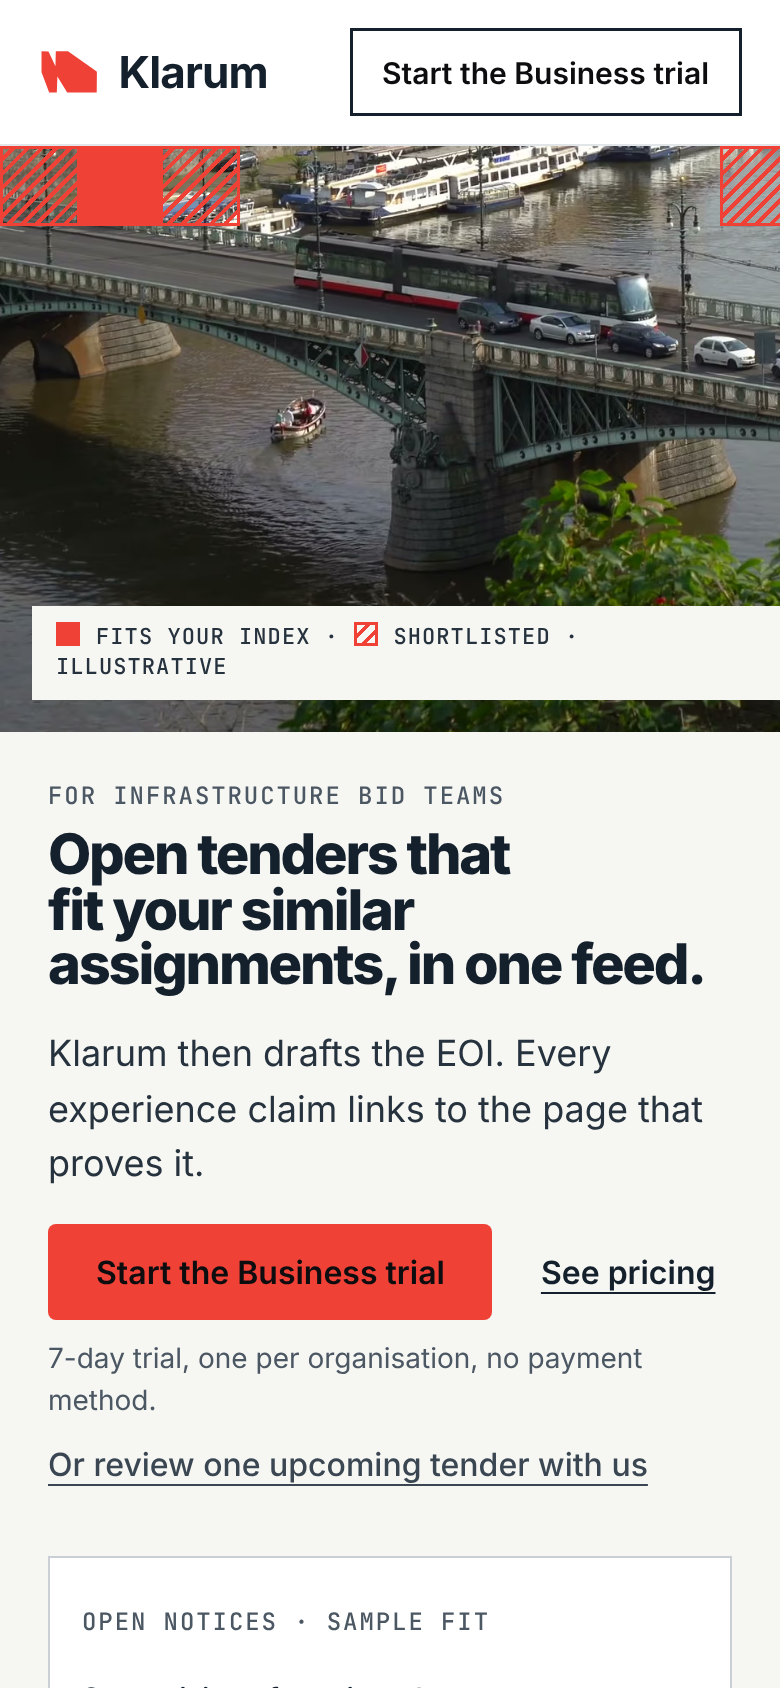
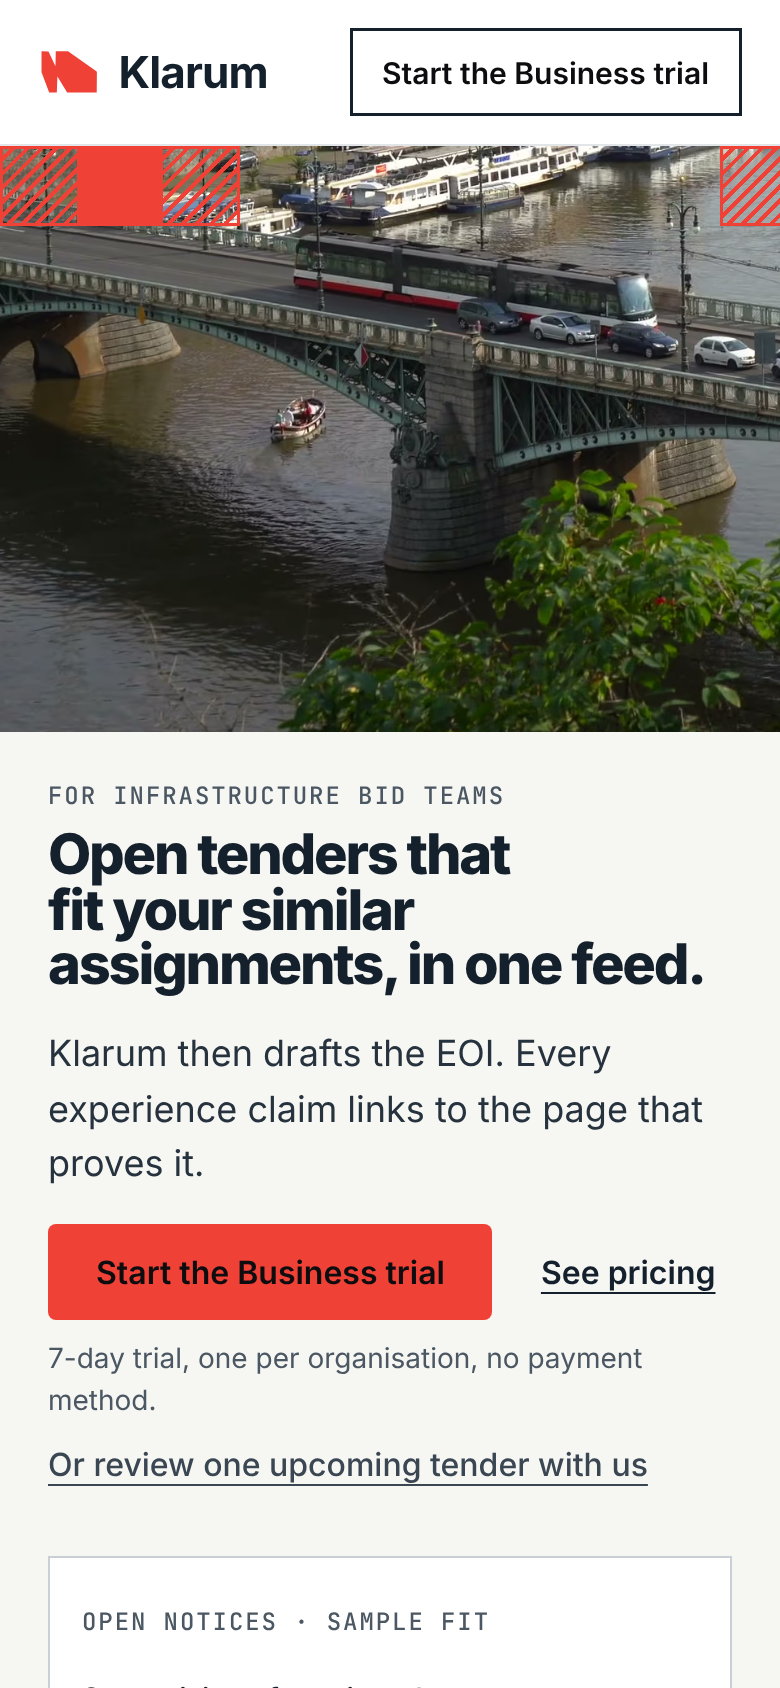
light hero: remove the tile legend
Claude-Session: https://claude.ai/code/session_01EG1FwsEyYwSqbe3r7QuqBf

Changed region(s): [[0.0308, 0.3389, 1.0, 0.4313]]

diff --git a/app/v2/minimal.css b/app/v2/minimal.css
@@ -61,11 +61,7 @@ html:has(.m) body { background: #fff; color: var(--body); }
 .mh-tr { left: calc(var(--pl) + var(--pw) - 8 * var(--tsz)); }
 .mh-tiles i { display: block; }
 .mh-tiles i.s { background: var(--red); }
-.mh-tiles i.h, .mh-sw.h { background: repeating-linear-gradient(-45deg, var(--red) 0 2px, transparent 2px 5px); box-shadow: inset 0 0 0 1.5px var(--red); }
-.mh-sw.s { background: var(--red); }
-.mh-sw { display: inline-block; width: var(--s-12); height: var(--s-12); margin-right: var(--s-8); vertical-align: -1px; }
-.mh-legend-box { position: absolute; top: 0; left: var(--pl); height: var(--band); display: flex; align-items: flex-end; padding-bottom: var(--s-8); }
-.mh-legend { padding: var(--s-8) var(--s-12); background: var(--surf); font: 500 var(--fs-11) / 1.4 var(--font-mono); letter-spacing: var(--ls-meta); text-transform: uppercase; color: var(--body); }
+.mh-tiles i.h { background: repeating-linear-gradient(-45deg, var(--red) 0 2px, transparent 2px 5px); box-shadow: inset 0 0 0 1.5px var(--red); }
 .mh-flow { position: relative; z-index: 3; }
 .mh-band { height: var(--band); }
 .mh-foot { height: var(--tsz); }
@@ -84,8 +80,7 @@ html:has(.m) body { background: #fff; color: var(--body); }
   .mh-bg { position: relative; inset: auto; aspect-ratio: 21 / 9; }
   .mh-tr, .mh-tiles i:not([data-m]) { display: none; }
   .mh-tl { top: calc(-1 * var(--tsz)); }
-  .mh-legend-box { top: auto; bottom: 0; left: 0; height: auto; padding: 0 0 var(--s-16) var(--s-16); }
-  .mh-band, .mh-foot { display: none; }
+    .mh-band, .mh-foot { display: none; }
   .mh-panel { left: 0; width: 100%; padding: var(--s-24); }
   .mh-cols { grid-template-columns: 1fr; gap: var(--s-24); }
   .mh-copy h1 { font-size: var(--fs-h1); }

diff --git a/components/v2/HeroMosaic.tsx b/components/v2/HeroMosaic.tsx
@@ -17,7 +17,7 @@ const Tiles = ({ cluster, tiles }: { cluster: "left" | "right"; tiles: readonly 
 /**
  * Light hero C. The photograph runs full-bleed behind the whole hero, bridge and tram in the band above one off-white panel
  * snapped to a 40 px grid; the panel holds the copy on the left and the notice card on the right, as the old hero C did.
- * Red tiles sit in the band only (solid = fits, hatched = shortlisted). Copy is unchanged from the previous hero C.
+ * Red tiles sit in the band only (solid = fits, hatched = shortlisted, as in the notice card). Copy is unchanged from the previous hero C.
  */
 export function HeroMosaic({ photos = true }: { photos?: boolean }) {
   const fb = photoFallback("hero", "color");
@@ -37,12 +37,6 @@ export function HeroMosaic({ photos = true }: { photos?: boolean }) {
         )}
         <Tiles cluster="left" tiles={TILES.left} />
         <Tiles cluster="right" tiles={TILES.right} />
-        <div className="mh-legend-box">
-          <p className="mh-legend">
-            <span className="mh-sw s" />Fits your index<span className="mh-dot"> · </span>
-            <span className="mh-sw h" />Shortlisted<span className="mh-dot"> · </span>Illustrative
-          </p>
-        </div>
       </div>
       <div className="mh-flow">
         <div className="mh-band" />

diff --git a/tests/v2.spec.ts b/tests/v2.spec.ts
@@ -26,7 +26,7 @@ test("v2 hero: all of C's content, one primary action, light ground", async ({ p
   await expect(page.getByRole("navigation", { name: "Hero variants" })).toHaveCount(0);
 });
 
-test("v2 hero: tiles are decorative, two thirds hatched, only in the photo band, with the legend", async ({ page }, info) => {
+test("v2 hero: tiles are decorative, two thirds hatched, only in the photo band", async ({ page }, info) => {
   test.skip(info.project.name !== "desktop-1280");
   await page.goto("/v2");
   await expect(page.locator(".mh-bg")).toHaveAttribute("aria-hidden", "true");
@@ -36,7 +36,7 @@ test("v2 hero: tiles are decorative, two thirds hatched, only in the photo band,
   expect(hatched + solid).toBeLessThan(70);
   expect(hatched / (hatched + solid)).toBeGreaterThan(0.6);
   expect(hatched / (hatched + solid)).toBeLessThan(0.72);
-  await expect(page.locator(".mh-legend")).toHaveText(/Fits your index · Shortlisted · Illustrative/);
+  await expect(page.locator(".mh-legend")).toHaveCount(0);
   // every tile sits inside the band: below the empty row under the header, above the panel
   const hero = await page.locator(".mh").boundingBox();
   const panel = await page.locator(".mh-panel").boundingBox();

diff --git a/DECISIONS.md b/DECISIONS.md
@@ -91,7 +91,7 @@ Changes after the first review of the graded set. Merged into `claude/tender-bab
 **Layout (second revision).** `components/v2/HeroMosaic.tsx`, `lib/mosaic.ts`, `.mh-*` in `app/v2/minimal.css`:
 - **Photo:** `hero-background-poster` in full colour, full-bleed behind the whole hero, cropped as a wide strip so the steel bridge, tram and traffic sit in the top 240 px, above the panel. Desktop is one 1920 px file (167 KB AVIF; the strip is drawn about 2090 px wide at any viewport, so no smaller size is ever picked); mobile is the tight bridge-deck crop, 81.7 KB AVIF and 83.2 KB WebP at 960 px. Preloaded with `fetchpriority="high"`, each preload with its own media condition.
 - **Panel:** one off-white panel (`--surf`), square corners, snapped to a 40 px tile grid by CSS `round()` (left edge and width are multiples of 40 at any viewport), 1040 px wide at 1280. At 1280 x 800 the H1, lead, CTA, trial note, review link and all three notices are inside the first screen, with exactly 240 px of photo above the panel (`tests/v2.spec.ts` asserts this).
-- **Tiles:** 40 px squares, only in the band above the panel, 48 in all, two thirds hatched (the shortlist hatch) and one third solid `--red`. Row 0 under the header is empty. They sit at the outer corners and above the tram's roofline, off the bridge deck, tram and traffic; three hatched tiles touch the panel's top edge above the notice card, so "Shortlisted" in the legend relates to the card. The legend sits at the band's bottom-left, aligned with the panel. Tiles are plain CSS grid cells, so they cost no image bytes. The three above the card cover a thin strip of the far railing: at that spot the road and rail run along the whole width of the band, so a tile touching the panel edge there cannot be fully clear of the bridge.
+- **Tiles:** 40 px squares, only in the band above the panel, 48 in all, two thirds hatched (the shortlist hatch) and one third solid `--red`. Row 0 under the header is empty. They sit at the outer corners and above the tram's roofline, off the bridge deck, tram and traffic; three hatched tiles touch the panel's top edge above the notice card, so the hatched tiles read as the same shortlisted state as the card. There is no legend: it was tried at the band's bottom-left ("Fits your index · Shortlisted · Illustrative") and removed on review. Tiles are plain CSS grid cells, so they cost no image bytes. The three above the card cover a thin strip of the far railing: at that spot the road and rail run along the whole width of the band, so a tile touching the panel edge there cannot be fully clear of the bridge.
 - **Header button:** outlined while the hero is in view, solid red after it scrolls out; the fill and the outline cross-fade (opacity only, 0 s under reduced motion). The header is now sticky so the change is visible.
 - **Phone (390):** photo strip of the bridge deck with a few tiles along its top, then the copy, then the notice card. The primary button is inside the first screen.
 - **Tokens:** font sizes and spacing from `tokens.css`; the audit shows 17 distinct off-token values against 20 before, none new.
